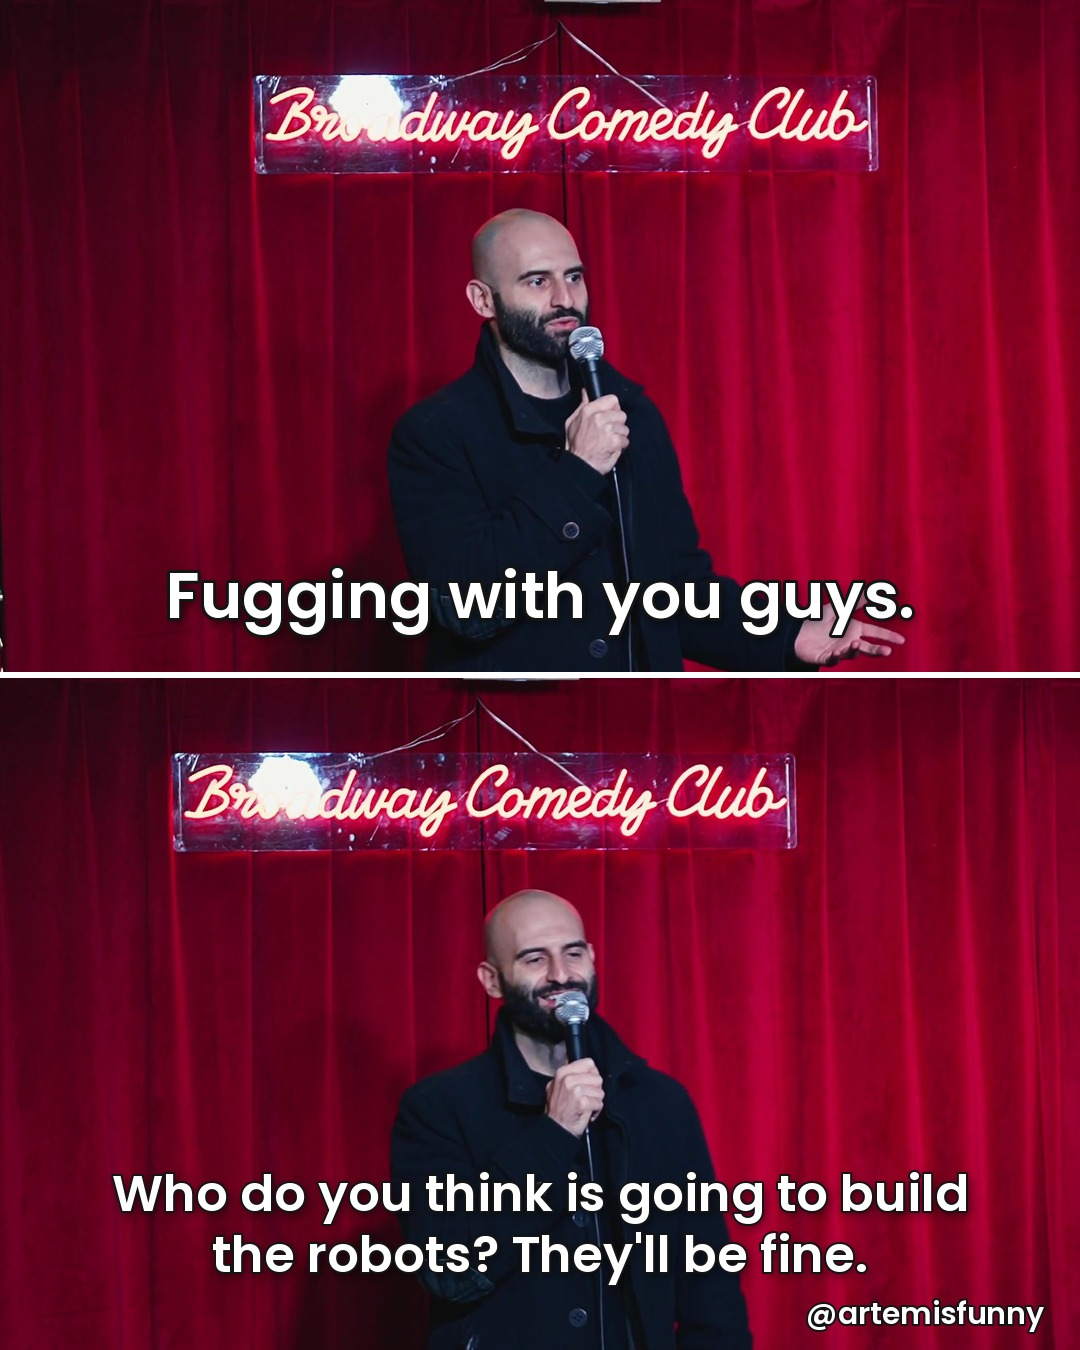
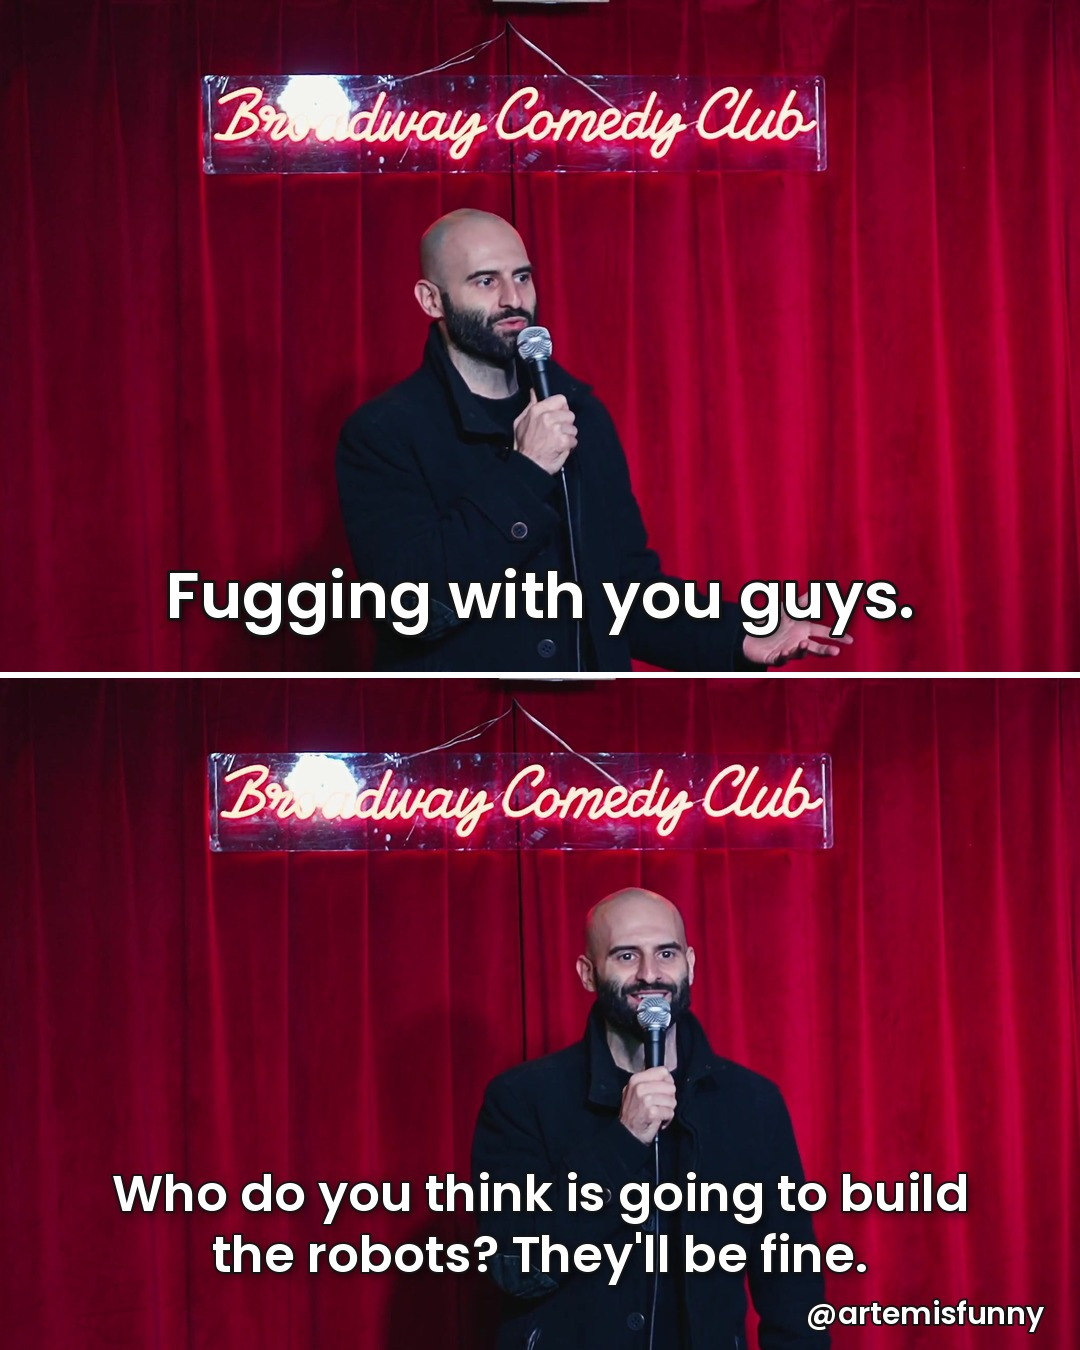
Nike AI v3: swap eyes-closed punch still for 56.6s, align slide 2 framing
Claude-Session: https://claude.ai/code/session_01EF93tepAZdur5hL3XZKLxp

diff --git a/joke-carousels/captions-nike-ai.md b/joke-carousels/captions-nike-ai.md
@@ -18,4 +18,4 @@ Artem asked for different photos (2026-10-27). Slide 1 is 101 over 102 (same fro
 
 ## v3, 4K tape stills (`out/split_nike_ai_v3_1-2.jpg`)
 
-Frames from the 4K Guyznite tape, Broadway Comedy Club 01/15/26 (`Guyznite 01_15_26 Broadway - Artem.mp4`, 3840x2160), not from the Nike bit itself. Seconds 29/39 and 45/57 into the tape, all one camera framing with the Broadway Comedy Club sign in shot. Neutral setups on 30 and 46, punches on the smiles at 40 and 58. Crops (2088x1300, sign to waist) are in `stills/guyznite-2026-01-15/`.
+Frames from the 4K Guyznite tape, Broadway Comedy Club 01/15/26 (`Guyznite 01_15_26 Broadway - Artem.mp4`, 3840x2160), not from the Nike bit itself. Seconds 29/39 and 45/56.6 into the tape, all one camera framing with the Broadway Comedy Club sign in shot. Neutral setups on 30 and 46, punches on the smiles at 40 and 56_6 (58 had his eyes closed, swapped 2026-10-27). Crops (2088x1300, sign to waist) are in `stills/guyznite-2026-01-15/`.
